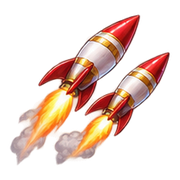
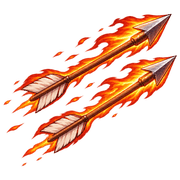
替换卡图：炎矢、冰晶脊 [skip ci]
Claude-Session: https://claude.ai/code/session_015MetZoRWrzVfeXw26cv7iz

diff --git a/src/game.js b/src/game.js
@@ -1,7 +1,7 @@
 // 异世界幸存者 · 卡牌篇 —— 主逻辑（玩法照搬杀戮尖塔第一幕）
-import { MECH, STARTRELIC, RULES, isFury, EVENTS2, ENCOUNTERS2, CARDS, STARTERS, RELICS, POTIONS, STATUS, ENEMIES, ENCOUNTERS, EVENTS } from './data.js?v=live2_11112608';
-import { createAudio } from './audio.js?v=live2_11112608';
-import { t, tr, getLanguage, setLanguage, onLanguageChange, watch, missing } from './i18n.js?v=live2_11112608';
+import { MECH, STARTRELIC, RULES, isFury, EVENTS2, ENCOUNTERS2, CARDS, STARTERS, RELICS, POTIONS, STATUS, ENEMIES, ENCOUNTERS, EVENTS } from './data.js?v=live2_11112609';
+import { createAudio } from './audio.js?v=live2_11112609';
+import { t, tr, getLanguage, setLanguage, onLanguageChange, watch, missing } from './i18n.js?v=live2_11112609';
 
 const $ = s => document.querySelector(s);
 const view = $('#view'), fxl = $('#fx'), stage = $('#stage');

diff --git a/src/data.js b/src/data.js
@@ -1,5 +1,5 @@
-import { tr } from './i18n.js?v=live2_11112608';
-import { NEWCARDS, NEWRELICS, NEWSTATUS, NEWSTARTERS, NEWSTARTRELIC, NEWKEYW, OLDKEYW, MECH, bindCards } from './chars.js?v=live2_11112608';
+import { tr } from './i18n.js?v=live2_11112609';
+import { NEWCARDS, NEWRELICS, NEWSTATUS, NEWSTARTERS, NEWSTARTRELIC, NEWKEYW, OLDKEYW, MECH, bindCards } from './chars.js?v=live2_11112609';
 export { MECH, NEWKEYW, OLDKEYW };
 // 数据：卡牌 / 秘宝 / 敌人 / 遭遇 / 事件
 // 卡牌 play(g,u,t)：g=战斗接口，u=是否升级(0/1)，t=目标敌人

diff --git a/index.html b/index.html
@@ -276,6 +276,6 @@ button{font-family:inherit;cursor:pointer}
 <body>
 <div id="rot"><div class="ph"></div><div>请把手机横过来玩</div><div style="font-size:15px;color:#c8b890">Please rotate your device</div></div>
 <div id="stage"><div id="view"></div><div id="fx"></div></div>
-<script type="module" src="src/game.js?v=live2_11112608"></script>
+<script type="module" src="src/game.js?v=live2_11112609"></script>
 </body>
 </html>

diff --git a/src/i18n.js b/src/i18n.js
@@ -1,6 +1,6 @@
 /* 多语言：中文原文就是 key（数字和「」里的名字会自动变成 {0}{1} 占位符），英文 / 日文词表在 src/lang/ */
-import EN from './lang/en.js?v=live2_11112608';
-import JA from './lang/ja.js?v=live2_11112608';
+import EN from './lang/en.js?v=live2_11112609';
+import JA from './lang/ja.js?v=live2_11112609';
 const DICT = { en: EN, ja: JA };
 const CJK = /[㐀-鿿]/;
 let lang = 'zh';
